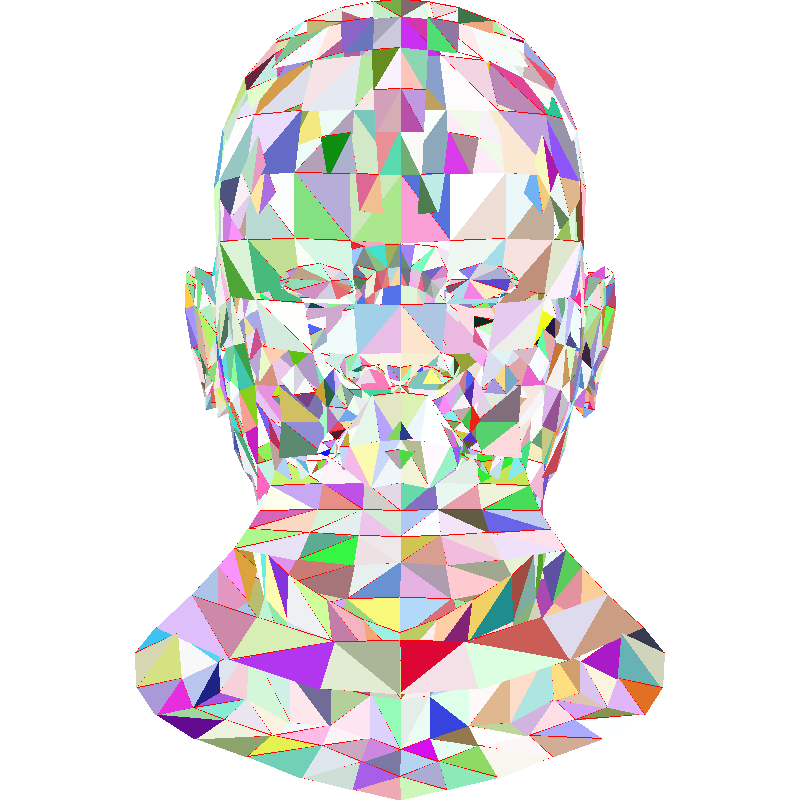
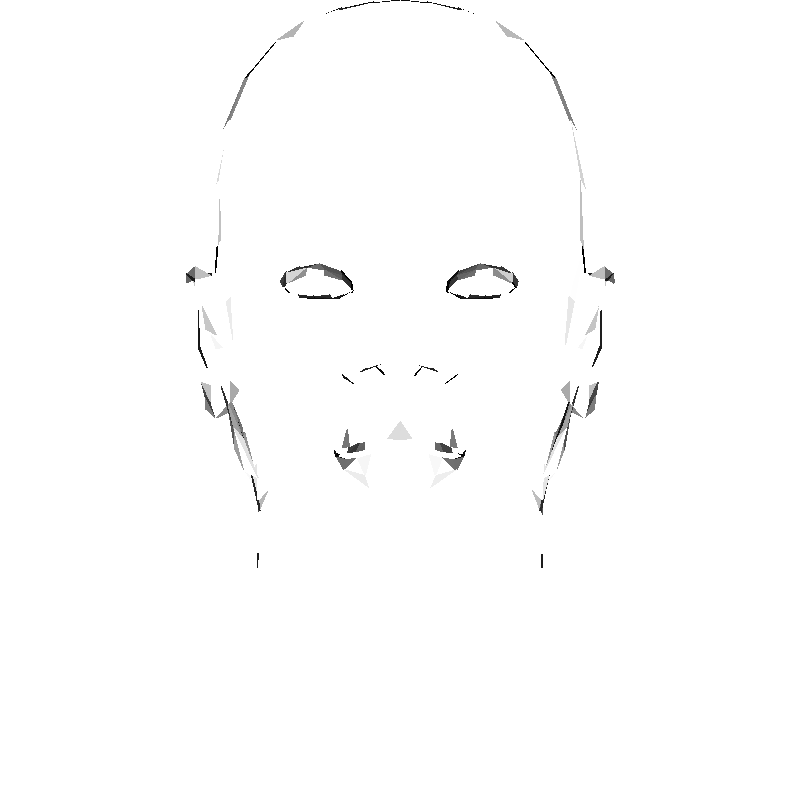
[study] lighting WIP

diff --git a/study/src/study9.rs b/study/src/study9.rs
@@ -1,12 +1,13 @@
 use image::imageops::flip_vertical_in_place;
 use image::{GenericImage, GenericImageView, ImageBuffer, Rgba};
+use nalgebra::{Point3, Vector3};
 use obj::{Obj, ObjData, Object, SimplePolygon};
 use render::transform::flip_vertically;
 use render::{display::*, display_images, geometry::*};
 use std::fs::File;
 use std::io::BufReader;
 use std::sync::{atomic::AtomicBool, Arc, Mutex};
-
+use std::vec;
 /**
  * 扫描线光栅化算法
  * 首先，确定三角形的顶点坐标（x1, y1），（x2, y2），（x3, y3）。
@@ -86,12 +87,12 @@ fn triangle(
 }
 
 /// 将顶点转换其xy坐标到图片坐标
-fn vec_trans(width: u32, height: u32, vertices: Vec<[f32; 3]>) -> Vec<[i32; 3]> {
-    let mut transformed_vertices: Vec<[i32; 3]> = Vec::new();
+fn vec_trans(width: u32, height: u32, vertices: Vec<[f32; 3]>) -> Vec<[f32; 3]> {
+    let mut transformed_vertices: Vec<[f32; 3]> = Vec::new();
     for vertex in vertices.iter() {
         let x = (vertex[0] + 1.) as f32 * width as f32 / 2.0;
         let y = (vertex[1] + 1.) as f32 * height as f32 / 2.0;
-        let transformed_vertex: [i32; 3] = [x as i32, y as i32, vertex[2] as i32];
+        let transformed_vertex: [f32; 3] = [x as f32, y as f32, vertex[2] as f32];
         transformed_vertices.push(transformed_vertex);
     }
     return transformed_vertices;
@@ -120,6 +121,13 @@ fn get_obj_polygons(obj_data: ObjData) -> Vec<Vec<[f32; 3]>> {
         }
     }
     return faces;
+}
+
+/// 计算三角形的法向量
+fn calculate_normal(vertices: &[Point3<f32>; 3]) -> Vector3<f32> {
+    let edge1 = vertices[1] - vertices[0];
+    let edge2 = vertices[2] - vertices[0];
+    edge1.cross(&edge2)
 }
 
 /// 读取 解析 obj https://github.com/simnalamburt/obj-rs
@@ -151,37 +159,52 @@ fn main() {
     );
     // 加载对象
     let obj_data = ObjData::load_buf(obj_content).expect("Failed to load OBJ file");
-
+    let light_dir = Vector3::new(0.0, 0.0, -1.0);
     // 获取polygons
     for polygon in get_obj_polygons(obj_data) {
         let transformed_vertices = vec_trans(width, height, polygon);
 
-        // 根据polygon转换的到的像素坐标，进行线段绘制
-        // 我们只绘制xy坐标，z坐标是深度信息，暂时忽略
-        for i in 0..2 {
-            let v0 = transformed_vertices[i];
-            let v1 = transformed_vertices[i + 1];
-            line(
-                v0[0],
-                v0[1],
-                v1[0],
-                v1[1],
+        // // 根据polygon转换的到的像素坐标，进行线段绘制
+        // // 我们只绘制xy坐标，z坐标是深度信息，暂时忽略
+        // for i in 0..2 {
+        //     let v0 = transformed_vertices[i];
+        //     let v1 = transformed_vertices[i + 1];
+        //     line(
+        //         v0[0],
+        //         v0[1],
+        //         v1[0],
+        //         v1[1],
+        //         &mut original_image,
+        //         Rgba([255, 0, 0, 255]),
+        //     );
+        // }
+
+        // 获得变换后的三角形顶点
+        let vertex1 = Point3::new(transformed_vertices[0][0] as f32, transformed_vertices[0][1] as f32, transformed_vertices[0][2] as f32);
+        let vertex2 = Point3::new(transformed_vertices[1][0] as f32, transformed_vertices[1][1] as f32, transformed_vertices[1][2] as f32);
+        let vertex3 = Point3::new(transformed_vertices[2][0] as f32, transformed_vertices[2][1] as f32, transformed_vertices[2][2] as f32);
+        let normal:Vector3<f32> = calculate_normal(&[vertex1, vertex2, vertex3]);
+
+
+        let mut intensity = normal.dot(&light_dir);
+        log::info!( "intensity :{:?}", intensity);
+
+        if intensity > 0. {
+            let color = Rgba([intensity as u8, intensity as u8, intensity as u8, 255]);
+            triangle(
+                transformed_vertices[0].map(|x| x as i32),
+                transformed_vertices[1].map(|x| x as i32),
+                transformed_vertices[2].map(|x| x as i32),
                 &mut original_image,
-                Rgba([255, 0, 0, 255]),
+                color
             );
         }
-        triangle(
-            transformed_vertices[0],
-            transformed_vertices[1],
-            transformed_vertices[2],
-            &mut original_image,
-            random_rgba(),
-        );
+
     }
 
     flip_vertically(&mut original_image);
     original_image
         .save(&format!("{}/study/img2-faces.png", resource_path))
         .expect("Failed to write clear TGA file");
-    display_images!(60, original_image);
+    // display_images!(60, original_image);
 }

diff --git a/README.md b/README.md
@@ -1,2 +1,217 @@
 # simple-render-rs
 tiny render code by rust
+
+
+
+use image::imageops::flip_vertical_in_place;
+use image::{GenericImage, GenericImageView, ImageBuffer, Rgba};
+use nalgebra::{Point3, Vector3};
+use obj::{Obj, ObjData, Object, SimplePolygon};
+use render::transform::flip_vertically;
+use render::{display::*, display_images, geometry::*};
+use std::fs::File;
+use std::io::BufReader;
+use std::sync::{atomic::AtomicBool, Arc, Mutex};
+use std::vec;
+/**
+ * 扫描线光栅化算法
+ * 首先，确定三角形的顶点坐标（x1, y1），（x2, y2），（x3, y3）。
+ * 找到三角形的最上边和最下边的扫描线，即确定扫描线的起始和结束y坐标范围。
+ * 对于每一条扫描线，计算它与三角形边的交点。根据扫描线的y坐标和三角形的边的斜率，使用插值计算得到扫描线与边的交点的x坐标。
+ * 根据得到的交点，确定每条扫描线的起始和结束x坐标。
+ * 在每条扫描线的起始和结束x坐标之间填充像素
+ */
+fn triangle(
+    v0: [i32; 3],
+    v1: [i32; 3],
+    v2: [i32; 3],
+    image: &mut ImageBuffer<Rgba<u8>, Vec<u8>>,
+    color: Rgba<u8>,
+) {
+    let mut v0 = v0;
+    let mut v1 = v1;
+    let mut v2 = v2;
+    // 1.对三角形的顶点按照 y 坐标进行排序，确保顶点按照从上到下的顺序排列。
+    if v0[1] > v1[1] {
+        std::mem::swap(&mut v0, &mut v1);
+    }
+    if v0[1] > v2[1] {
+        std::mem::swap(&mut v0, &mut v2);
+    }
+    if v1[1] > v2[1] {
+        std::mem::swap(&mut v1, &mut v2);
+    }
+
+    // 2. 使用线段绘制算法栅格化三角形的左边和右边。
+    // 根据高度插值得到，对于每一条水平扫描线，找到与这条扫描线相交的左边界点和右边界点。
+    // 可以使用v1作为分割，然后上部分和下部分分别设置像素点
+
+    //计算完整的三角形高度
+    let total_height = v2[1] - v0[1] + 1;
+    for h in 1..=total_height {
+        // 判断当前是上一部分还是下一部分
+        let second_half = h > v1[1] - v0[1] || v1[1] == v0[1];
+        // segment_height 是当前扫描线所在段的高度
+        let segment_height = if second_half {
+            v2[1] - v1[1] + 1
+        } else {
+            v1[1] - v0[1] + 1
+        };
+        // 计算当前高度
+        let alpha = h as f32 / total_height as f32;
+        // beta 表示当前扫描线所在部分高度上的位置比例
+        let beta = (h - if second_half { v1[1] - v0[1] } else { 0 }) as f32 / segment_height as f32;
+        // 根据 alpha 和 beta 计算出当前扫描线的左边界点和右边界点
+        let mut a: [f32; 2] = [0., 0.];
+        let mut b: [f32; 2] = [0., 0.];
+        for i in 0..2 {
+            // 计算左边界点
+            // 先计算向量v2->v0，然后乘以alpha 得到向量v2->v0的分量
+            // 这样在x,y 坐标上就计算得到了坐标点
+            a[i] = ((v2[i] - v0[i]) as f32 * alpha + v0[i] as f32) as f32;
+
+            // 计算右边界点
+            // 上半部分，那么就是v1->v0
+            // 下半部分，那么就是v2->v1
+            b[i] = if second_half {
+                ((v2[i] - v1[i]) as f32 * beta + v1[i] as f32) as f32
+            } else {
+                ((v1[i] - v0[i]) as f32 * beta + v0[i] as f32) as f32
+            };
+        }
+        // 确保 a 在 b 的左边
+        if a[0] > b[0] {
+            std::mem::swap(&mut a, &mut b);
+        }
+        // 从左边界点的x坐标开始，到右边界点的x结束，设置像素点
+        for j in a[0] as i32..=b[0].round() as i32 {
+            //坐标就是 x坐标:j 以及y坐标:h
+            point(j, v0[1] + (h - 1), image, color)
+        }
+    }
+}
+
+/// 将顶点转换其xy坐标到图片坐标
+fn vec_trans(width: u32, height: u32, vertices: Vec<[f32; 3]>) -> Vec<[f32; 3]> {
+    let mut transformed_vertices: Vec<[f32; 3]> = Vec::new();
+    for vertex in vertices.iter() {
+        let x = (vertex[0] + 1.) as f32 * width as f32 / 2.0;
+        let y = (vertex[1] + 1.) as f32 * height as f32 / 2.0;
+        let transformed_vertex: [f32; 3] = [x, y, vertex[2]];
+        transformed_vertices.push(transformed_vertex);
+    }
+    return transformed_vertices;
+}
+
+/// 获取obj文件中的所有的polygon，以顶点坐标列表的形式返回
+fn get_obj_polygons(obj_data: ObjData) -> Vec<Vec<[f32; 3]>> {
+    // 存储这个obj中所有polygon的所有顶点索引
+    let mut faces = Vec::new();
+    // 获取顶点坐标
+    let position_data = obj_data.position;
+    // 遍历绘制全部的对象的polygon
+    for object in obj_data.objects {
+        for group in object.groups {
+            for idx_vec in group.polys {
+                if let SimplePolygon(polygon) = idx_vec {
+                    let mut vertices = Vec::<[f32; 3]>::new();
+                    polygon.iter().for_each(|ids| {
+                        // 获取顶点坐标
+                        let position = position_data[ids.0];
+                        vertices.push(position);
+                    });
+                    faces.push(vertices.clone());
+                }
+            }
+        }
+    }
+    return faces;
+}
+
+/// 计算三角形的法向量
+fn calculate_normal(vertices: &[Point3<f32>; 3]) -> Vector3<f32> {
+    let edge1 = vertices[2] - vertices[0];
+    let edge2 = vertices[1] - vertices[0];
+    edge1.cross(&edge2)//.normalize()
+}
+
+/// 读取 解析 obj https://github.com/simnalamburt/obj-rs
+/// 直接绘制obj 里顶点连接的线
+/// 忽略顶点的z坐标
+fn main() {
+    std::env::set_var("RUST_LOG", "info");
+    env_logger::init();
+    // 读取cargo.toml 文件所在地址
+    let resource_path = format!("{}/../resource", env!("CARGO_MANIFEST_DIR"));
+    log::info!("resource_path :{}", &resource_path);
+
+    // 创建一个imgbuf
+    let width = 800;
+    let height = 800;
+    let mut original_image = ImageBuffer::new(width, height);
+
+    // 第一种加载方式
+    let obj_object = Obj::load(&format!("{}/obj/african_head.obj", resource_path))
+        .expect("Failed to read OBJ file");
+    let obj_data = obj_object.data;
+
+    // 第二种加载方式
+    // 将文件转为bytes Reader 接口
+    let obj_content = include_bytes!("../../resource/study/img.png");
+    let obj_content = BufReader::new(
+        File::open(&format!("{}/obj/african_head.obj", resource_path))
+            .expect("Failed to read OBJ file"),
+    );
+    // 加载对象
+    let obj_data = ObjData::load_buf(obj_content).expect("Failed to load OBJ file");
+    let light_dir = Vector3::new(0.0, 0.0, -1.0);
+    // 获取polygons
+    for polygon in get_obj_polygons(obj_data) {
+        let transformed_vertices = vec_trans(width, height, polygon);
+
+        // // 根据polygon转换的到的像素坐标，进行线段绘制
+        // // 我们只绘制xy坐标，z坐标是深度信息，暂时忽略
+        // for i in 0..2 {
+        //     let v0 = transformed_vertices[i];
+        //     let v1 = transformed_vertices[i + 1];
+        //     line(
+        //         v0[0],
+        //         v0[1],
+        //         v1[0],
+        //         v1[1],
+        //         &mut original_image,
+        //         Rgba([255, 0, 0, 255]),
+        //     );
+        // }
+
+        // 获得变换后的三角形顶点
+        let vertex1 = Point3::new(transformed_vertices[0][0] as f32, transformed_vertices[0][1] as f32, transformed_vertices[0][2] as f32);
+        let vertex2 = Point3::new(transformed_vertices[1][0] as f32, transformed_vertices[1][1] as f32, transformed_vertices[1][2] as f32);
+        let vertex3 = Point3::new(transformed_vertices[2][0] as f32, transformed_vertices[2][1] as f32, transformed_vertices[2][2] as f32);
+        let normal:Vector3<f32> = calculate_normal(&[vertex1, vertex2, vertex3]);
+
+
+        let mut intensity = normal.dot(&light_dir);
+
+        log::info!("normal:{:?} intensity :{:?}",normal,intensity);
+        
+        if intensity > 0. {
+            intensity = ((intensity as f32).min(1.0).max(0.0) * 255.0) as f32;
+            let color = Rgba([intensity as u8, intensity as u8, intensity as u8, 255]);
+            triangle(
+                transformed_vertices[0].map(|x| x as i32),
+                transformed_vertices[1].map(|x| x as i32),
+                transformed_vertices[2].map(|x| x as i32),
+                &mut original_image,
+                color
+            );
+        }
+
+    }
+
+    flip_vertically(&mut original_image);
+    original_image
+        .save(&format!("{}/study/img2-faces.png", resource_path))
+        .expect("Failed to write clear TGA file");
+    // display_images!(60, original_image);
+}
